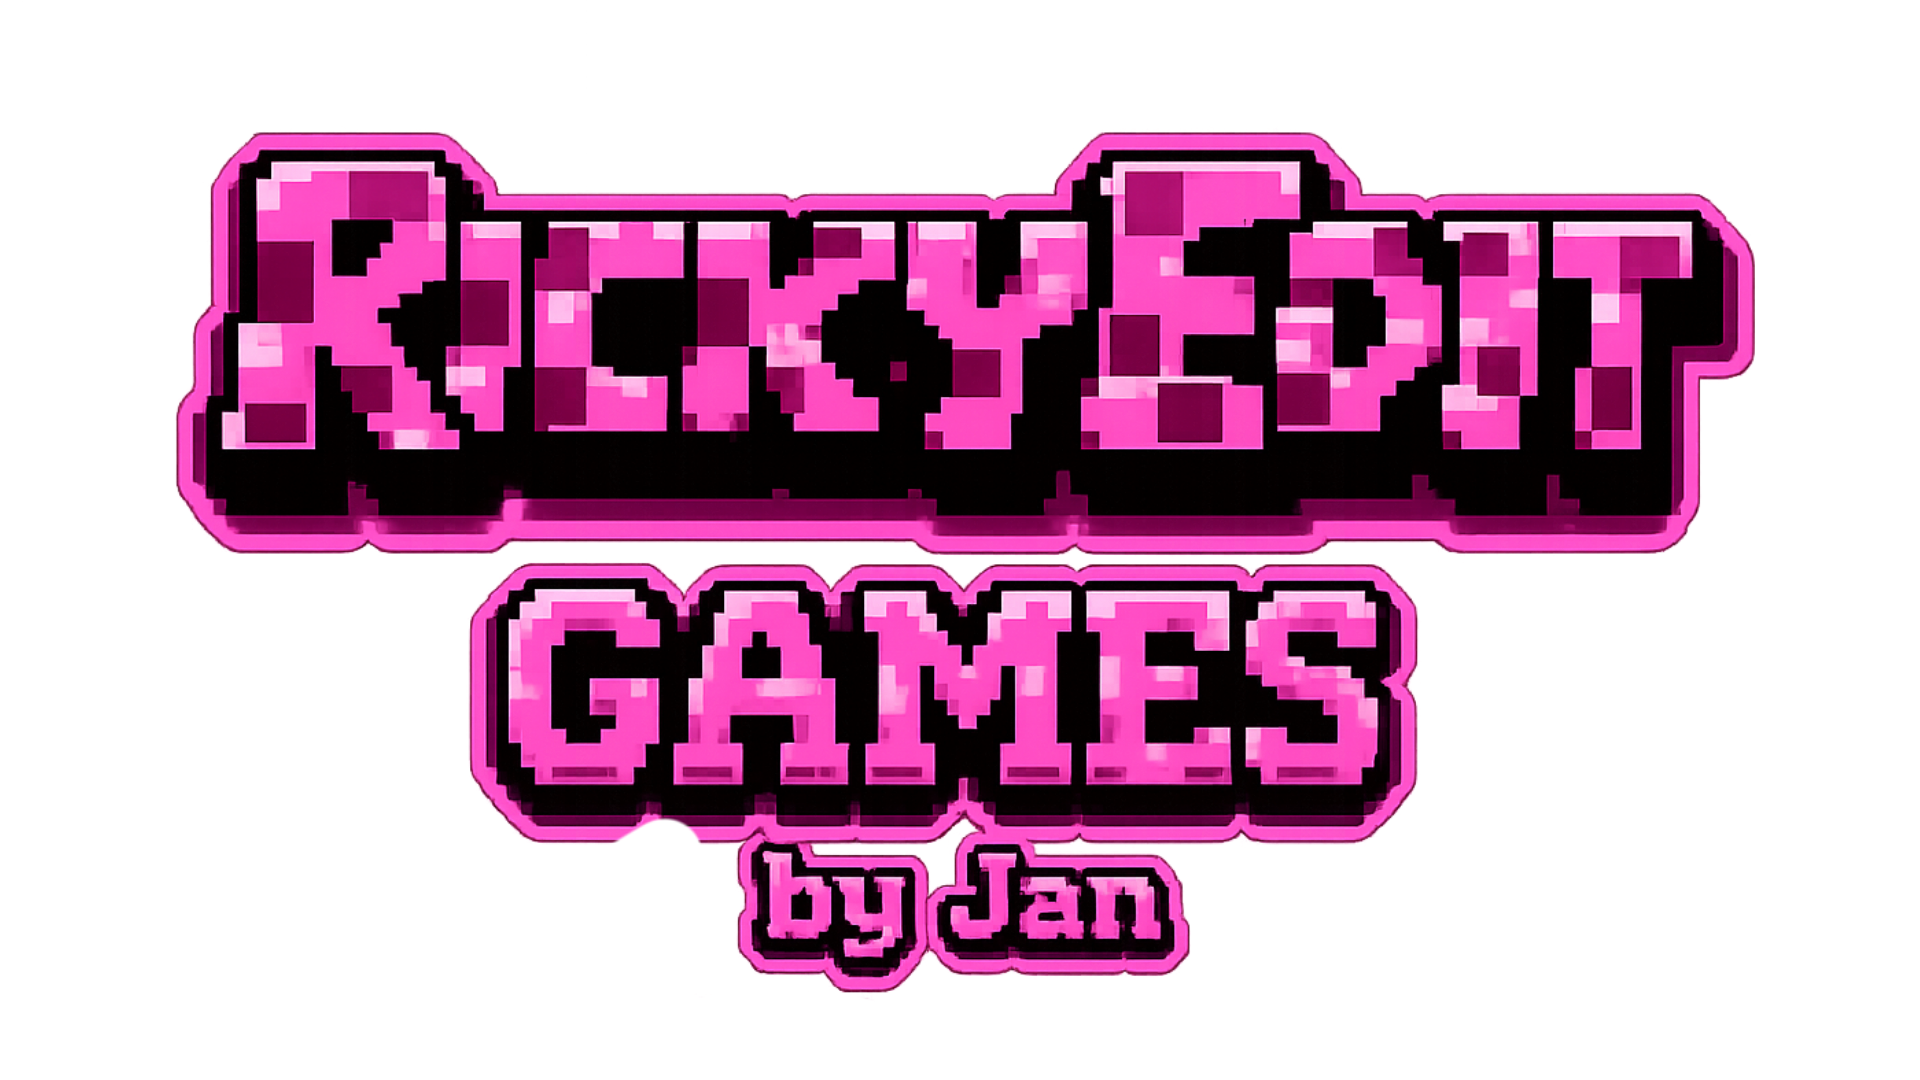
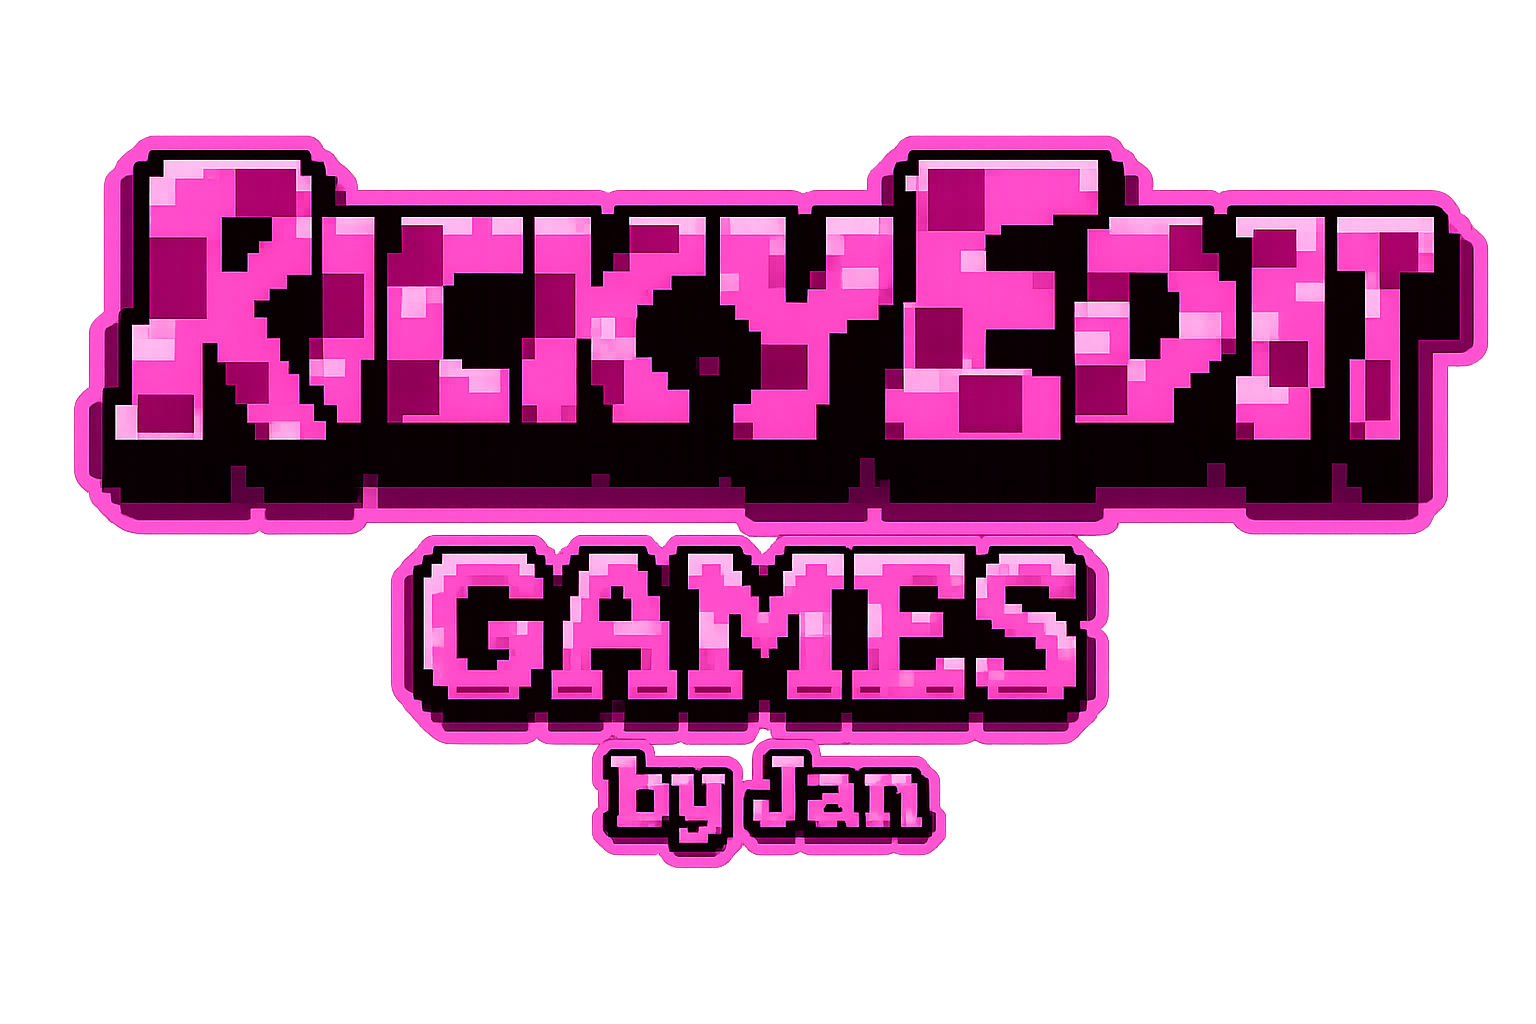
v6.3

diff --git a/leaderboard.js b/leaderboard.js
@@ -540,8 +540,7 @@
   /* ── Admin Panel ───────────────────────────────────────── */
   function isDeleteUnlocked() {
     try {
-      var eggs = JSON.parse(localStorage.getItem('rlb_easter_eggs')) || [];
-      return eggs.indexOf('jan1119') !== -1;
+      return localStorage.getItem('rlb_delete_unlocked') === '1';
     } catch (e) { return false; }
   }
 
@@ -740,7 +739,6 @@
         <div class="rlb-report-actions">
           <button id="rlbReportCancel" class="rlb-report-btn-modal rlb-report-btn-cancel">Cancelar</button>
           <button id="rlbReportConfirm" class="rlb-report-btn-modal rlb-report-btn-confirm">Reportar</button>
-          ${deleteEnabled ? '<button id="rlbReportDelete" class="rlb-report-btn-modal rlb-report-btn-delete">Eliminar</button>' : ''}
         </div>
       </div>
     `;
@@ -752,14 +750,6 @@
       setTimeout(() => modal.remove(), 300);
       callback('report');
     });
-    var deleteBtn = document.getElementById('rlbReportDelete');
-    if (deleteBtn) {
-      deleteBtn.addEventListener('click', () => {
-        modal.classList.remove('show');
-        setTimeout(() => modal.remove(), 300);
-        callback('delete');
-      });
-    }
     document.getElementById('rlbReportCancel').addEventListener('click', () => {
       modal.classList.remove('show');
       setTimeout(() => modal.remove(), 300);
@@ -846,7 +836,7 @@
       if (!container) return;
       opts = opts || {};
 
-      const maxRows = opts.maxRows || 20;
+      const maxRows = opts.maxRows || 100;
       const columns = opts.columns || ['rank', 'name', 'correct', 'total', 'percent', 'lives', 'time', 'difficulty', 'date'];
 
       const diffLabels = { easy: '<img src="../Iconos/Dificultad dif%C3%ADcil.png" alt="" class="rlb-icon-img"> Cagado', normal: '<img src="../Iconos/Dificultad normal.png" alt="" class="rlb-icon-img"> Normal', extreme: '<img src="../Extremo.png" alt="" class="rlb-icon-img"> Extremo', hard: '<img src="../Iconos/Dificultad dif%C3%ADcil.png" alt="" class="rlb-icon-img"> Difícil', none: '—' };
@@ -966,7 +956,11 @@
                   if (isOwn) {
                     val = '';
                   } else {
-                    val = `<button class="rlb-report-btn" data-name="${escapeHtml(s.name || '')}" title="Reportar nombre"><img src="../Aviso.png" alt="" class="rlb-icon-img"></button>`;
+                    let reportBtn = `<button class="rlb-report-btn" data-name="${escapeHtml(s.name || '')}" title="Reportar nombre"><img src="../Aviso.png" alt="" class="rlb-icon-img"></button>`;
+                    if (isDeleteUnlocked()) {
+                      reportBtn += `<button class="rlb-admin-btn rlb-admin-delete rlb-row-delete-btn" data-name="${escapeHtml(s.name || '')}" title="Eliminar nombre" style="margin-left:4px;padding:4px 8px;font-size:0.75rem;"><img src="../Iconos RickyEdit Web/🗑️.png" alt="" style="width:1em;height:1em;vertical-align:middle;"></button>`;
+                    }
+                    val = reportBtn;
                   }
                   break;
               }
@@ -1046,6 +1040,29 @@
                 render();
               }
             });
+          });
+        });
+
+        /* Direct delete button listeners (admin only) */
+        container.querySelectorAll('.rlb-row-delete-btn').forEach(btn => {
+          btn.addEventListener('click', () => {
+            const name = btn.dataset.name;
+            if (!name) return;
+            if (!confirm('¿Estás seguro de que quieres eliminar a "' + name + '"?\n\nSe eliminará de todos los leaderboards y no podrá volver a usar este nombre.')) return;
+            addReportedName(name, getSavedName() || getPlayerId(), gameId);
+            syncReportedToFirebase();
+            GAMES.forEach(g => {
+              const scores = loadScores(g);
+              const filtered = scores.filter(s => s.name && s.name.toLowerCase() !== name.toLowerCase());
+              saveScores(g, filtered);
+              /* Push directly to Firebase without merge */
+              fetch(FIREBASE_DB_URL + '/leaderboard/' + g + '.json', {
+                method: 'PUT',
+                headers: { 'Content-Type': 'application/json' },
+                body: JSON.stringify(filtered)
+              }).catch(function() {});
+            });
+            render();
           });
         });
       }

diff --git a/easter-egg.js b/easter-egg.js
@@ -6,15 +6,21 @@
   'use strict';
 
   var LS_KEY = 'rlb_easter_eggs';
-  var TOTAL_EGGS = 9;
+  var TOTAL_EGGS = 8;
 
-  /* Migration: remove letrless from discovered if it exists */
+  /* Migration: remove letrless and jan1119 from discovered if they exist */
   try {
     var _disc = JSON.parse(localStorage.getItem(LS_KEY)) || [];
+    var _changed = false;
     if (_disc.indexOf('letrless') !== -1) {
       _disc = _disc.filter(function (k) { return k !== 'letrless'; });
-      localStorage.setItem(LS_KEY, JSON.stringify(_disc));
+      _changed = true;
     }
+    if (_disc.indexOf('jan1119') !== -1) {
+      _disc = _disc.filter(function (k) { return k !== 'jan1119'; });
+      _changed = true;
+    }
+    if (_changed) localStorage.setItem(LS_KEY, JSON.stringify(_disc));
   } catch (e) {}
 
   var EASTER_EGGS = {
@@ -73,13 +79,6 @@
       title: 'Felicidades, has encontrado al Ricky Futbolero (por cierto, tiene la bandera y eso personalizado para ti)',
       subtitle: '',
       colors: ['#f1c40f', '#36e28a', '#38d4ff']
-    },
-    jan1119: {
-      id: 'jan1119',
-      image: 'Jan.png',
-      title: 'Código secreto de Jan',
-      subtitle: 'Botón de eliminar desbloqueado',
-      colors: ['#f1c40f', '#e74c3c', '#ff33cc']
     }
   };
 
@@ -224,17 +223,10 @@
       /* Check secret notification code first (jan1119 in base64) */
       if (typeof checkSecretCode === 'function' && checkSecretCode(val)) {
         input.value = '';
-        var isNewEgg = discover('jan1119');
-        if (isNewEgg) {
-          showEggReveal(EASTER_EGGS['jan1119']);
-          var newCount = getDiscovered().length;
-          var counter = modal.querySelector('.rlb-ee-count-num');
-          if (counter) counter.textContent = newCount;
-          refreshList();
-        }
-        feedback.textContent = 'Acceso concedido. Botón de notificaciones y eliminar activados.';
+        feedback.textContent = 'Acceso concedido. Botones de notificaciones y eliminar activados.';
         feedback.className = 'rlb-ee-input-feedback success';
         try { localStorage.setItem('rlb_notif_authorized', '1'); } catch (e) {}
+        try { localStorage.setItem('rlb_delete_unlocked', '1'); } catch (e) {}
         showFloatingNotifButton();
         return;
       }

diff --git a/mas-caro/style.css b/mas-caro/style.css
@@ -73,10 +73,6 @@ body {
     padding: 8px clamp(16px, 4vw, 44px);
     background: linear-gradient(90deg, var(--pink-2), var(--pink));
     box-shadow: 0 8px 30px rgba(255, 51, 204, 0.3);
-    max-width: 1200px;
-    margin: 0 auto;
-    width: 100%;
-    box-sizing: border-box;
 }
 
 .logo-container {
@@ -549,12 +545,6 @@ footer {
     padding: 38px 18px 52px;
     background: #111214;
     text-align: center;
-    max-width: 1200px;
-    margin-left: auto;
-    margin-right: auto;
-    width: 100%;
-    box-sizing: border-box;
-    border-radius: 0;
 }
 
 .footer-links {
@@ -613,10 +603,6 @@ footer p {
     padding: 8px clamp(16px, 4vw, 44px);
     background: linear-gradient(90deg, var(--pink-2), var(--pink));
     box-shadow: 0 8px 30px rgba(255, 51, 204, 0.3);
-    max-width: 1200px;
-    margin: 0 auto;
-    width: 100%;
-    box-sizing: border-box;
 }
 
 .hero-section {

diff --git a/index.html b/index.html
@@ -543,7 +543,7 @@
 
         <div class="arcade-grid">
             <!-- Tarjeta Songless -->
-            <a href="songless/" class="arcade-card songless-card">
+            <a href="songless/index.html" class="arcade-card songless-card">
                 <div class="card-image-header">
                     <img class="card-icon-img" src="icon_songless.png" alt="Songless Icon">
                 </div>
@@ -566,7 +566,7 @@
             </a>
 
             <!-- Tarjeta Emojless -->
-            <a href="emojless/" class="arcade-card emojless-card">
+            <a href="emojless/index.html" class="arcade-card emojless-card">
                 <div class="card-image-header">
                     <img class="card-icon-img" src="icon_emojless.png" alt="Emojless Icon">
                 </div>
@@ -589,7 +589,7 @@
             </a>
 
             <!-- Tarjeta Thumbnail Blur -->
-            <a href="thumbnail-blur/" class="arcade-card songless-card">
+            <a href="thumbnail-blur/index.html" class="arcade-card songless-card">
                 <div class="card-image-header">
                     <img class="card-icon-img" src="icon_miniatura_borrosa.png" alt="Thumbnail Blur Icon">
                 </div>
@@ -611,7 +611,7 @@
             </a>
 
             <!-- Tarjeta Letrless -->
-            <a href="letrless/" class="arcade-card emojless-card">
+            <a href="letrless/index.html" class="arcade-card emojless-card">
                 <div class="card-image-header">
                     <img class="card-icon-img" src="Letrless.png" alt="Letrless Icon">
                 </div>
@@ -633,7 +633,7 @@
             </a>
 
             <!-- Tarjeta Mas Caro -->
-            <a href="mas-caro/" class="arcade-card mascaro-card">
+            <a href="mas-caro/index.html" class="arcade-card mascaro-card">
                 <div class="card-image-header">
                     <img class="card-icon-img" src="icon_vs.png" alt="¿Qué es más caro? Icon">
                 </div>

diff --git a/leaderboard.css b/leaderboard.css
@@ -15,7 +15,7 @@
 .leaderboard-panel {
   display: none;
   width: 100%;
-  max-width: 900px;
+  max-width: 1080px;
   margin: 0 auto;
   animation: rlbSlideIn 0.35s cubic-bezier(0.175, 0.885, 0.32, 1.275);
 }
@@ -161,6 +161,8 @@
 /* ── Table ─────────────────────────────────────────────────── */
 .rlb-table-wrap {
   overflow-x: auto;
+  overflow-y: auto;
+  max-height: 370px;
   border-radius: 18px;
   border: 1px solid rgba(255, 255, 255, 0.1);
   background: linear-gradient(180deg, rgba(255, 51, 204, 0.04), transparent), var(--card);
@@ -183,6 +185,9 @@
   color: var(--muted);
   background: rgba(255, 255, 255, 0.04);
   border-bottom: 2px solid var(--line);
+  position: sticky;
+  top: 0;
+  z-index: 1;
 }
 .rlb-table td {
   padding: 12px 18px;

diff --git a/thumbnail-blur/index.html b/thumbnail-blur/index.html
@@ -133,7 +133,7 @@
         .filter-tab:hover { background: rgba(255,51,204,0.15); color: #fff; }
         .filter-tab.active { background: linear-gradient(135deg, var(--yellow), var(--pink)); color: #111; border-color: transparent; }
 
-        .controls { display: grid; gap: 18px; padding: 22px; background: rgba(14,14,18,0.56); }
+        .controls { display: grid; gap: 18px; padding: 22px; background: rgba(14,14,18,0.56); border-radius: 0 0 21px 21px; }
         .rounds { display: grid; grid-template-columns: repeat(6,1fr); gap: 8px; }
         .round-step { position: relative; min-height: 44px; display: grid; place-items: center; border-radius: 12px; border: 1px solid var(--line); background: rgba(255,255,255,0.04); color: var(--muted); font-weight: 900; overflow: hidden; }
         .round-step.active, .round-step.done { color: #111; border-color: transparent; background: linear-gradient(135deg, var(--yellow), var(--pink)); }
@@ -556,7 +556,7 @@
     </div>
 
     <!-- Leaderboard -->
-    <div style="width:100%;max-width:800px;margin:24px auto;padding:0 16px;">
+    <div style="width:100%;max-width:1080px;margin:24px auto;padding:0 16px;">
         <div class="leaderboard-panel visible" id="leaderboardPanel">
             <div id="leaderboardContainer"></div>
         </div>

diff --git a/emojless/index.html b/emojless/index.html
@@ -302,6 +302,7 @@
             gap: 18px;
             padding: 22px;
             background: rgba(14, 14, 18, 0.56);
+            border-radius: 0 0 21px 21px;
         }
 
         .rounds {
@@ -1153,7 +1154,7 @@
     </div>
 
     <!-- Leaderboard -->
-    <div style="width:100%;max-width:800px;margin:24px auto;padding:0 16px;">
+    <div style="width:100%;max-width:1080px;margin:24px auto;padding:0 16px;">
         <div class="leaderboard-panel visible" id="leaderboardPanel">
             <div id="leaderboardContainer"></div>
         </div>

diff --git a/letrless/index.html b/letrless/index.html
@@ -330,6 +330,7 @@
             gap: 18px;
             padding: 22px;
             background: rgba(14, 14, 18, 0.56);
+            border-radius: 0 0 21px 21px;
         }
 
         .rounds {
@@ -1254,7 +1255,7 @@
     </div>
 
     <!-- Leaderboard -->
-    <div style="width:100%;max-width:800px;margin:24px auto;padding:0 16px;">
+    <div style="width:100%;max-width:1080px;margin:24px auto;padding:0 16px;">
         <div class="leaderboard-panel visible" id="leaderboardPanel">
             <div id="leaderboardContainer"></div>
         </div>

diff --git a/songless/index.html b/songless/index.html
@@ -474,6 +474,7 @@
             gap: 18px;
             padding: 22px;
             background: rgba(14, 14, 18, 0.56);
+            border-radius: 0 0 21px 21px;
         }
 
         .rounds {
@@ -1938,7 +1939,7 @@
     </div>
 
     <!-- Leaderboard -->
-    <div style="width:100%;max-width:800px;margin:24px auto;padding:0 16px;">
+    <div style="width:100%;max-width:1080px;margin:24px auto;padding:0 16px;">
         <div class="leaderboard-panel visible" id="leaderboardPanel">
             <div id="leaderboardContainer"></div>
         </div>

diff --git a/emojless/game.js b/emojless/game.js
@@ -1074,7 +1074,7 @@ function renderEmojlessLeaderboard() {
         title: '<img src="../Iconos/Trofeo leaderboard.png" alt="" class="rlb-icon-img"> Top — Emojless',
         columns: ['rank', 'name', 'score', 'correct', 'total', 'percent', 'lives', 'time', 'difficulty', 'date'],
         difficulties: ['easy', 'normal'],
-        maxRows: 20
+        maxRows: 100
     });
 }
 

diff --git a/letrless/game.js b/letrless/game.js
@@ -1038,7 +1038,7 @@
             title: '<img src="../Iconos/Trofeo leaderboard.png" alt="" class="rlb-icon-img"> Top — Letrless',
             columns: ['rank', 'name', 'score', 'correct', 'total', 'percent', 'lives', 'time', 'difficulty', 'date'],
             difficulties: ['easy', 'normal', 'hard'],
-            maxRows: 20
+            maxRows: 100
         });
     }
 

diff --git a/mas-caro/game.js b/mas-caro/game.js
@@ -1047,7 +1047,7 @@ function renderLeaderboard() {
         title: '<img src="../Iconos/Trofeo leaderboard.png" alt="" class="rlb-icon-img"> Top — ¿Qué es más caro?',
         columns: ['rank', 'name', 'score', 'correct', 'total', 'percent', 'lives', 'time', 'difficulty', 'date'],
         difficulties: ['easy', 'normal'],
-        maxRows: 20
+        maxRows: 100
     });
 }
 